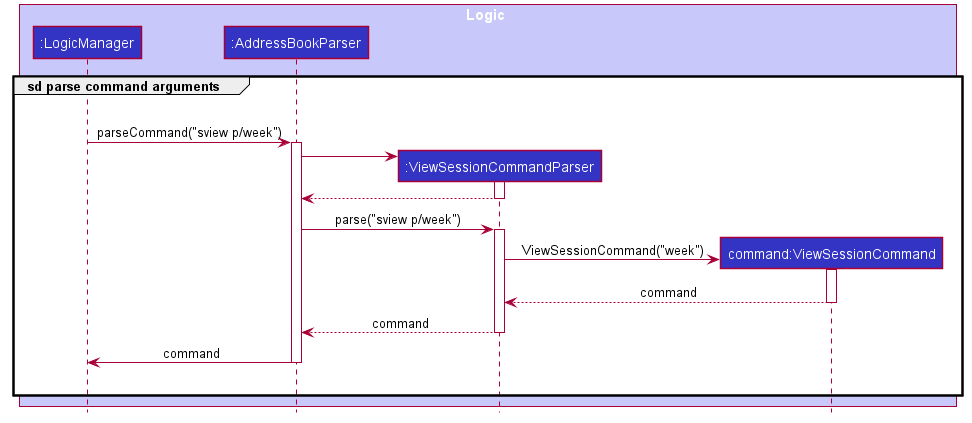
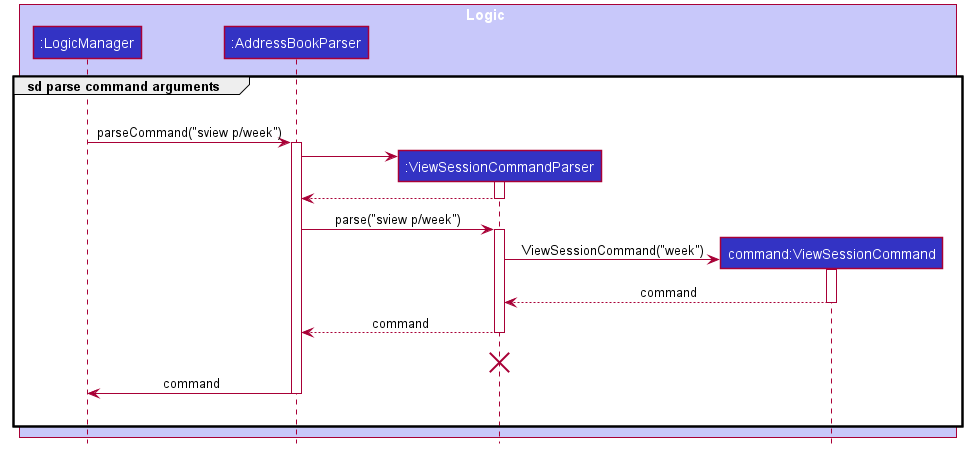
Make DG more PDF-friendly (#276)
* pb

* add page break

* add page break 3

* add page break 4

* add page break 4

* Avoid images breaking

* Remove page break

* Fix line break for 3.4

* Replace with page-break-before for some

* Add line breaks

* Add line breaks

* add line break

* remove line breaks

* try reducing space before toc

* add line break

* add line break

* add line break

* separate markdown and html

* Continue numbering after image

* Add line break after setting to A4

* add page breaks

* Swap ui orientation items

* Prevent image from page breaking

* Resize seq diagram

* Add page breaks

* add page breaks and hours spent

* add page break to design

* Add destroy marker for ViewSession in DG

* Update PPP

* Fix broken html tag

* use specific reposense link

diff --git a/docs/DeveloperGuide.md b/docs/DeveloperGuide.md
@@ -13,6 +13,7 @@ Made with **fitness instructors** in mind, **FitEgo** is a **desktop program** t
 {:toc}
 
 --------------------------------------------------------------------------------------------------------------------
+<div style="page-break-before: always"></div>
 
 ## 1 **Setting up, getting started**
 
@@ -44,12 +45,13 @@ Additional information.
 </div>
 
 --------------------------------------------------------------------------------------------------------------------
+<div style="page-break-before: always"></div>
 
 ## 2 **Design**
 
 ### 2.1 Architecture
 
-<figure style="width:auto; text-align:center; padding:0.5em; font-style: italic; font-size: smaller;">
+<figure style="width:auto; text-align:center; padding:0.5em; font-style: italic; font-size: smaller; page-break-inside: avoid ">
     <p>
         <img src="images/ArchitectureDiagram.png" width="450" />
     </p>
@@ -84,7 +86,7 @@ Each of the four components,
 
 For example, the `Logic` component (see the class diagram given below) defines its API in the `Logic.java` interface and exposes its functionality using the `LogicManager.java` class which implements the `Logic` interface.
 
-<figure style="width:auto; text-align:center; padding:0.5em; font-style: italic; font-size: smaller;">
+<figure style="width:auto; text-align:center; padding:0.5em; font-style: italic; font-size: smaller; page-break-inside: avoid ">
     <p>
         <img src="images/LogicClassDiagram.png"/>
     </p>
@@ -95,7 +97,7 @@ For example, the `Logic` component (see the class diagram given below) defines i
 
 The *Sequence Diagram* below shows how the components interact with each other for the scenario where the user issues the command `cdel 1`.
 
-<figure style="width:auto; text-align:center; padding:0.5em; font-style: italic; font-size: smaller;">
+<figure style="width:50%; text-align:center; padding:0.5em; font-style: italic; font-size: smaller; page-break-inside: avoid ">
     <p>
         <img src="images/ArchitectureSequenceDiagram.png"/>
     </p>
@@ -106,7 +108,7 @@ The sections below give more details of each component.
 
 ### 2.2 UI component
 
-<figure style="width:auto; text-align:center; padding:0.5em; font-style: italic; font-size: smaller;">
+<figure style="width:auto; text-align:center; padding:0.5em; font-style: italic; font-size: smaller; page-break-inside: avoid ">
     <p>
         <img src="images/UiClassDiagramP3.png" style="width: 50%"/>
     </p>
@@ -115,7 +117,7 @@ The sections below give more details of each component.
 
 The UiComponents package in the above diagram has the following classes. 
 
-<figure style="width:auto; text-align:center; padding:0.5em; font-style: italic; font-size: smaller;">
+<figure style="width:auto; text-align:center; padding:0.5em; font-style: italic; font-size: smaller; page-break-inside: avoid ">
     <p>
         <img src="images/UiClassDiagramP2.png"/>
     </p>
@@ -138,7 +140,7 @@ The `UI` component interacts with these external API:
 
 ### 2.3 Logic component
 
-<figure style="width:auto; text-align:center; padding:0.5em; font-style: italic; font-size: smaller;">
+<figure style="width:auto; text-align:center; padding:0.5em; font-style: italic; font-size: smaller; page-break-inside: avoid ">
     <p>
         <img src="images/LogicClassDiagram.png"/>
     </p>
@@ -156,7 +158,7 @@ The `UI` component interacts with these external API:
 
 Given below is the Sequence Diagram for interactions within the `Logic` component for the `execute("cdel 1")` API call.
 
-<figure style="width:auto; text-align:center; padding:0.5em; font-style: italic; font-size: smaller;">
+<figure style="width:auto; text-align:center; padding:0.5em; font-style: italic; font-size: smaller; page-break-inside: avoid ">
     <p>
         <img src="images/DeleteClientSequenceDiagram.png"/>
     </p>
@@ -166,9 +168,11 @@ Given below is the Sequence Diagram for interactions within the `Logic` componen
 <div markdown="span" class="alert alert-info">:information_source: **Note:** The lifeline for `DeleteClientCommandParser` and `DeleteClientCommand` should end at the destroy marker (X) but due to a limitation of PlantUML, the lifeline reaches the end of diagram.
 </div>
 
+<div style="page-break-before: always"></div>
+
 ### 2.4 Model component
 
-<figure style="width:auto; text-align:center; padding:0.5em; font-style: italic; font-size: smaller;">
+<figure style="width:auto; text-align:center; padding:0.5em; font-style: italic; font-size: smaller; page-break-inside: avoid ">
     <p>
         <img src="images/ModelClassDiagram.png"/>
     </p>
@@ -177,7 +181,7 @@ Given below is the Sequence Diagram for interactions within the `Logic` componen
 
 The figure above gives the overall architecture of the Model component.
 
-<figure style="width:auto; text-align:center; padding:0.5em; font-style: italic; font-size: smaller;">
+<figure style="width:auto; text-align:center; padding:0.5em; font-style: italic; font-size: smaller; page-break-inside: avoid ">
     <p>
         <img src="images/ModelClassDiagram2.png"/>
     </p>
@@ -199,7 +203,7 @@ The `Model`,
 
 ### 2.5 Storage component
 
-<figure style="width:auto; text-align:center; padding:0.5em; font-style: italic; font-size: smaller;">
+<figure style="width:auto; text-align:center; padding:0.5em; font-style: italic; font-size: smaller; page-break-inside: avoid ">
     <p>
         <img src="images/StorageClassDiagram.png"/>
     </p>
@@ -217,6 +221,7 @@ The `Storage` component,
 Classes used by multiple components are in the `seedu.addressbook.commons` package.
 
 --------------------------------------------------------------------------------------------------------------------
+<div style="page-break-before: always"></div>
 
 ## 3 **Implementation**
 
@@ -247,6 +252,8 @@ e.g. print the actual list instead of just its size
 Certain properties of the application can be controlled(e.g. user prefs file location, logging level), 
 through the configuration file (default: `config.json`)
 
+<div style="page-break-before: always"></div>
+
 ### 3.3 Edit Session feature
 
 <div id="f10" >The Edit Session feature allows user to edit a Session.</div>
@@ -267,8 +274,10 @@ The `sedit` command calls `Model#setSession()`, causing changes to be made in th
 
 The following sequence diagram shows how the Edit Session operation works:
 
-<figure style="width:auto; text-align:center; padding:0.5em; font-style: italic; font-size: smaller;">
+<figure style="width:auto; text-align:center; padding:0.5em; font-style: italic; font-size: smaller; page-break-inside: avoid ">
+    <p>
         <img src="images/EditSessionSequenceDiagram.png"/>
+    </p>
     <figcaption>Figure 10 - Edit Session Sequence Diagram</figcaption>
 </figure>
 
@@ -278,12 +287,14 @@ The following sequence diagram shows how the Edit Session operation works:
 
 The following activity diagram summarizes what happens when a user executes a new `EditSession` command, with the assumption that the user inputs a valid command:
 
-<figure style="width:auto; text-align:center; padding:0.5em; font-style: italic; font-size: smaller;">
+<figure style="width:auto; text-align:center; padding:0.5em; font-style: italic; font-size: smaller; page-break-inside: avoid ">
     <p>
         <img src="images/EditSessionActivityDiagram.png"/>
     </p>
     <figcaption>Figure 11 - Edit Session Activity Diagram</figcaption>
 </figure>
+
+<div style="page-break-before: always"></div>
 
 ### 3.4 Delete Session feature
 
@@ -302,7 +313,7 @@ However, the user can pass in an optional force (`f/`) parameter to delete all s
 
 The following activity diagram summarizes what happens when a user executes a new `DeleteSession` command, with the assumption that the user inputs a valid command.
 
-<figure style="width:auto; text-align:center; padding:0.5em; font-style: italic; font-size: smaller;">
+<figure style="width:auto; text-align:center; padding:0.5em; font-style: italic; font-size: smaller; page-break-inside: avoid ">
     <p>
         <img src="images/DeleteSessionActivityDiagram.png" style="width: 50%; height: auto;"/>
     </p>
@@ -311,7 +322,7 @@ The following activity diagram summarizes what happens when a user executes a ne
 
 The following diagram shows a possible application state in FitEgo, where 2 clients, Andy and John, are scheduled to a same session.
 
-<figure style="width:auto; text-align:center; padding:0.5em; font-style: italic; font-size: smaller;">
+<figure style="width:auto; text-align:center; padding:0.5em; font-style: italic; font-size: smaller; page-break-inside: avoid ">
     <p>
         <img src="images/DeleteSessionObjectDiagram.png" style="width: 50%; height: auto;"/>
     </p>
@@ -329,7 +340,7 @@ For simplicity, we will refer to this command input as `commandText`.
     <figcaption>Figure 14 - Delete Session Sequence Diagram</figcaption>
 </figure>
 
-<figure style="width:auto; text-align:center; padding:0.5em; font-style: italic; font-size: smaller;">
+<figure style="width:auto; text-align:center; padding:0.5em; font-style: italic; font-size: smaller; page-break-inside: avoid ">
     <p>
         <img src="images/DeleteSessionParseArgsRef.png"/>
     </p>
@@ -373,6 +384,7 @@ In designing this feature, we had to consider several alternative ways in which 
     - Pros: Easy to implement.
     - Cons: A schedule might have invalid session, breaking data integrity.
 
+<div style="page-break-before: always"></div>
 
 ### 3.5 Add Schedule feature
 
@@ -390,7 +402,7 @@ When using this command, the `CLIENT_INDEX` should refer to the index shown in t
 
 The following activity diagram summarizes the decision making process when a user executes a new `AddSchedule` command.
 
- <figure style="width:auto; text-align:center; padding:0.5em; font-style: italic; font-size: smaller;">
+ <figure style="width:auto; text-align:center; padding:0.5em; font-style: italic; font-size: smaller; page-break-inside: avoid ">
      <p>
          <img src="images/AddScheduleActivityDiagram.png" style="width: 70%; height: auto;"/>
      </p>
@@ -421,7 +433,7 @@ Instead of using `DeleteSessionCommandParser`, it uses `AddScheduleCommandParser
 
 `AddScheduleCommand#execute(model)` will be called instead of `DeleteSessionCommand#execute(model)`. For this particular case, the method call `AddScheduleCommand#execute(model)` can be traced using the following sequence diagram snippet.
 
- <figure style="width:auto; text-align:center; padding:0.5em; font-style: italic; font-size: smaller;">
+ <figure style="width:auto; text-align:center; padding:0.5em; font-style: italic; font-size: smaller; page-break-inside: avoid ">
      <p>
          <img src="images/AddScheduleExecuteRef.png" style="width: 100%; height: auto;"/>
      </p>
@@ -433,7 +445,7 @@ Since for this case no identical Schedule is not found, a new Schedule object is
 
 Thus, `schadd c/2 s/1` will add a Schedule associated with Andy (the second Client in the Client List) and endurance training from 12/02/2020 1400 - 1600 (the first Session in the Session List). The result can be illustrated by the following object diagram, which shows a new Schedule is created.
 
- <figure style="width:auto; text-align:center; padding:0.5em; font-style: italic; font-size: smaller;">
+ <figure style="width:auto; text-align:center; padding:0.5em; font-style: italic; font-size: smaller; page-break-inside: avoid ">
      <p>
          <img src="images/OverlappingScheduleObjectDiagram1.png" style="width: 85%; height: auto;"/>
      </p>
@@ -443,6 +455,8 @@ Thus, `schadd c/2 s/1` will add a Schedule associated with Andy (the second Clie
 **Case 2:** `schadd c/1 s/1`
 
 On the other hand, invoking `schadd c/1 s/1` will result in an error shown to the user as an identical Schedule already exists. [Here](#f17), John is already scheduled to the endurance training Session from 12/02/2020 1400 - 1600.
+
+<div style="page-break-before: always"></div>
 
 ### 3.6 Edit Schedule feature
 
@@ -461,7 +475,7 @@ The `schedit` command calls `Model#setSchedule()`, causing changes to be made in
 
 The following activity diagram summarizes what happens when a user executes a new `EditSchedule` command, with the assumption that the user inputs a valid command:
 
-<figure style="width:auto; text-align:center; padding:0.5em; font-style: italic; font-size: smaller;">
+<figure style="width:auto; text-align:center; padding:0.5em; font-style: italic; font-size: smaller; page-break-inside: avoid ">
     <p>
         <img src="images/EditScheduleActivityDiagram.png" style="width: 25%; height: auto;"/>
     </p>
@@ -479,6 +493,7 @@ The following activity diagram summarizes what happens when a user executes a ne
   * Pros: Easier to retrieve.
   * Cons: Implementation is more confusing as User there's a conflict between Index and user-typed String index.
 
+<div style="page-break-before: always"></div>
 
 ### 3.7 View Client's Weight feature
 
@@ -495,12 +510,14 @@ at the start of every session. Thus, to get the weight change over time, a list 
 
 In the following sequence diagram, we trace the execution starting from when the user calls `cview 1` until when the UI is updated with Client View.
 
-<figure style="width:auto; text-align:center; padding:0.5em; font-style: italic; font-size: smaller;">
+<figure style="width:auto; text-align:center; padding:0.5em; font-style: italic; font-size: smaller; page-break-inside: avoid ">
     <p>
         <img src="images/ClientViewWeightSequenceDiagram.png" alt="ClientViewWeightSequenceDiagram" style="align-content: center" />
     </p>
     <figcaption>Figure 21 - Client View Weight Generate Sequence Diagram</figcaption>
 </figure>
+
+<div style="page-break-before: always"></div>
 
 <div markdown="block" class="alert alert-info"> 
 
@@ -514,6 +531,8 @@ is a CommandResult object, within which, contains a Supplier which returns a Pan
 As shown in the "alt" frame, the chart is added into the tab pane if there are associated schedule and the weight (if present within the `Schedule` object)
 will be added into the line chart. Otherwise, the `Weight` tab will be removed instead of showing an empty chart.  
 
+<div style="page-break-before: always"></div>
+
 #### 3.7.2 Design Considerations
 In designing this weight tracking feature, we had considered several alternative ways in which we can store and retreive the weight. 
 
@@ -524,6 +543,8 @@ In designing this weight tracking feature, we had considered several alternative
 * **Alternative 2:** Stores a list of `Weight` within the `Client` object
   * Pros: Do not require a schedule in order to track weight. 
   * Cons: Lesser information about the weight (schedule's exercise, remarks, time, etc) is stored.  
+
+<div style="page-break-before: always"></div>
 
 ### 3.8 View Session by period feature
 
@@ -547,7 +568,7 @@ must follow the format `(+/-)#(D/W/M/Y)`.
 
 The following activity diagram summarizes what happens when a user executes a new View Session command.
 
-<figure style="width:auto; text-align:center; padding:0.5em; font-style: italic; font-size: smaller;">
+<figure style="width:auto; text-align:center; padding:0.5em; font-style: italic; font-size: smaller; page-break-inside: avoid ">
     <p>
         <img src="images/ViewSessionActivityDiagram.png" style="height: auto;"/>
     </p>
@@ -557,14 +578,14 @@ The following activity diagram summarizes what happens when a user executes a ne
 In the following sequence diagram, we trace the execution when the user decides to enter the View Session command 
 `sview p/week` into FitEgo.
 
-<figure style="width:auto; text-align:center; padding:0.5em; font-style: italic; font-size: smaller;">
+<figure style="width:auto; text-align:center; padding:0.5em; font-style: italic; font-size: smaller; page-break-inside: avoid ">
     <p>
         <img src="images/ViewSessionSequenceDiagram.png" alt="ViewSessionSequenceDiagram" style="align-content: center" />
     </p>
     <figcaption>Figure 23 - View Session Sequence Diagram</figcaption>
 </figure>
 
-<figure style="width:auto; text-align:center; padding:0.5em; font-style: italic; font-size: smaller;">
+<figure style="width:auto; text-align:center; padding:0.5em; font-style: italic; font-size: smaller; page-break-inside: avoid ">
     <p>
         <img src="images/ViewSessionParserRef.png" alt="ViewSessionParserRef" style="align-content: center" />
     </p>
@@ -585,7 +606,7 @@ should end at the destroy marker (X) but due to a limitation of PlantUML, the li
 
 1. Command result is passed to `MainWindow` to indicate a successful execution. `MainWindow` will then update the `RightSideBar`.
 
-    <figure style="width:auto; text-align:center; padding:0.5em; font-style: italic; font-size: smaller;">
+    <figure style="width:auto; text-align:center; padding:0.5em; font-style: italic; font-size: smaller; page-break-inside: avoid ">
     <p>
         <img src="images/ViewSessionUpdateRightSideBarRef.png" alt="ViewSessionUpdateRightSideBarRefSequenceDiagram" style="align-content: center" />
     </p>
@@ -613,6 +634,7 @@ In designing this feature, we had to consider several alternative ways in which 
          This also increases chances of errors made in implementation.
 
 --------------------------------------------------------------------------------------------------------------------
+<div style="page-break-before: always"></div>
 
 ## 4 **Documentation, logging, testing, configuration, dev-ops**
 
@@ -641,6 +663,7 @@ In designing this feature, we had to consider several alternative ways in which 
 He can spend more time on his clients/his routine rather than manually using alternative software like Excel to track
 administrative matters.
 
+<div style="page-break-before: always"></div>
 
 ### 5.2 User stories
 
@@ -672,6 +695,7 @@ Priorities: High (must have) - `* * *`, Medium (nice to have) - `* *`, Low (unli
 | `*`      | user                                          | change software background between light and dark mode | customise my experience                        |
 | `*`      | trainer focused on coaching pre-NS teen       | track client's date of birth   | adjust the fitness intensity depending on IPPT period                  |
 
+<div style="page-break-before: always"></div>
 
 ### 5.3 Use cases
 
@@ -989,6 +1013,7 @@ from your previous machine to your new machine.
 
 
 --------------------------------------------------------------------------------------------------------------------
+<div style="page-break-before: always"></div>
 
 ## 6 **Appendix B: Instructions for manual testing**
 
@@ -1154,7 +1179,7 @@ Otherwise, the expected outcome: No changes are made. Error details shown in the
 
 
 ---
-
+<div style="page-break-before: always"></div>
 
 ## 7 **Appendix C: Efforts**
 ### Effort
@@ -1164,7 +1189,7 @@ We believe that the effort to develop FitEgo is at least twice of that of AB3. B
 
 We think that the difficulty level for developing FitEgo was quite high because there are many entities involved (Client, Session, and Schedule) compared to AB3 that only has Person. Schedule is an association class, which needs integration testing and some changes needed to be made when the Schedule-related features were added. New panels and windows such as Client List, Session List, settings window, and Client detail view were also created. Such changes in the UI were very challenging.
 
-Our team wrote around 23k LoC, 30 pages of User Guide and 50 pages of Developer Guide.
+Our team spent about 700 hours in total (~20 hours a week) to write around 23k LoC, 30 pages of User Guide and 50 pages of Developer Guide.
 
 ### Challenges Faced 
 

diff --git a/docs/team/kelvinvin.md b/docs/team/kelvinvin.md
@@ -34,7 +34,7 @@ Given below are my contributions to the project.
   * Highlights: It necessitated the implementation of an additional user preference field. 
   * Credits: *Reused code from the Help window to implement the Settings window*
 
-* **Code contributed**: [RepoSense link](https://nus-cs2103-ay2021s1.github.io/tp-dashboard/#breakdown=true&search=kelvinvin&sort=groupTitle&sortWithin=title&since=2020-08-14&timeframe=commit&mergegroup=&groupSelect=groupByRepos&checkedFileTypes=docs~functional-code~test-code~other&tabOpen=true&tabType=authorship&tabAuthor=kelvinvin&tabRepo=AY2021S1-CS2103T-T13-3%2Ftp%5Bmaster%5D&authorshipIsMergeGroup=false&authorshipFileTypes=docs~functional-code~test-code)
+* **Code contributed**: [RepoSense link](https://nus-cs2103-ay2021s1.github.io/tp-dashboard/#breakdown=true&search=kelvinvin&sort=groupTitle&sortWithin=title&since=2020-08-14&timeframe=commit&mergegroup=&groupSelect=groupByRepos&checkedFileTypes=docs~functional-code~test-code~other&until=2020-11-09&tabOpen=true&tabType=authorship&tabAuthor=kelvinvin&tabRepo=AY2021S1-CS2103T-T13-3%2Ftp%5Bmaster%5D&authorshipIsMergeGroup=false&authorshipFileTypes=docs~functional-code~test-code)
 
 * **Project management or Team-based tasks**:
   * Managed timely updates of demo animations for each iteration [v1.2](https://imgur.com/a/loBT8Cb), [v1.3](https://hackmd.io/Eo7Gsii8RTWRlDLykD35LQ)
